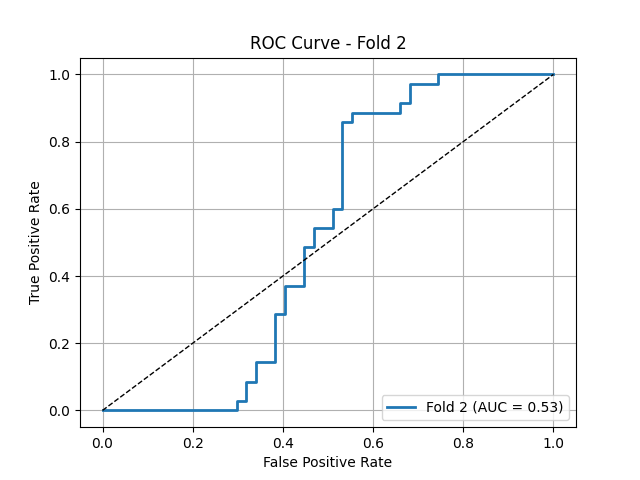
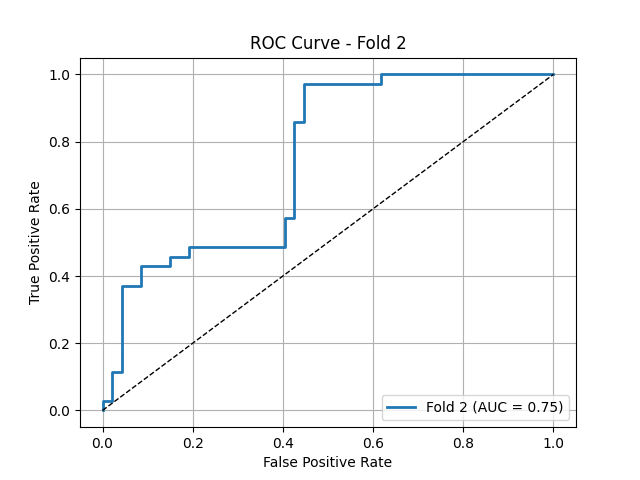
asymetric loss function inplace of bcewithlogits

diff --git a/models.py b/models.py
@@ -200,6 +200,27 @@ class FCNetwork(nn.Module):
     def forward(self, x):
         return self.model(x)
 
+
+class AsymmetricLoss(nn.Module):
+    def __init__(self, gamma_pos=0, gamma_neg=4, clip=0.05, eps=1e-8):
+        super(AsymmetricLoss, self).__init__()
+        self.gamma_pos = gamma_pos
+        self.gamma_neg = gamma_neg
+        self.clip = clip
+        self.eps = eps
+
+    def forward(self, inputs, targets):
+        inputs_sigmoid = torch.sigmoid(inputs)
+        inputs_sigmoid = torch.clamp(inputs_sigmoid, self.eps, 1 - self.eps)
+
+        if self.clip is not None and self.clip > 0:
+            inputs_sigmoid = (inputs_sigmoid - self.clip).clamp(min=0, max=1)
+
+        targets = targets.float()
+        loss_pos = targets * torch.log(inputs_sigmoid) * (1 - inputs_sigmoid) ** self.gamma_pos
+        loss_neg = (1 - targets) * torch.log(1 - inputs_sigmoid) * inputs_sigmoid ** self.gamma_neg
+        loss = -loss_pos - loss_neg
+        return loss.mean()
     
 
 # this model is binary classification model: malignant, benign    
@@ -247,7 +268,11 @@ class BinaryClassification(pl.LightningModule):
         self.final_layer = FCNetwork(input_size= 4, hidden_sizes=[8, 12, 5], output_size= 1)
 
 
-        self.loss_fn = nn.BCEWithLogitsLoss()  # More stable than BCELoss
+        self.loss_fn =  AsymmetricLoss(
+                    gamma_pos=0.0,     # do not suppress learning from malignant (minority)
+                    gamma_neg=4.0,     # suppress easy benign (majority) examples
+                    clip=0.05          # clip predictions near 0 or 1 to avoid overconfidence
+                )# AsymmetricLoss() # nn.BCEWithLogitsLoss()  # More stable than BCELoss
         self.accuracy_metric = BinaryAccuracy()  # Accuracy metric using TorchMetrics
         self.auc_metric = torchmetrics.AUROC(task="binary")
 
@@ -339,7 +364,6 @@ class BinaryClassification(pl.LightningModule):
             x4 = self.linear_center(x_center.reshape(x.shape[0], -1)) 
             x =  torch.cat([x1, x2, x3 ,x4], dim = -1)  
             return self.final_layer(x).squeeze(), (x1.squeeze(), x2.squeeze(), x3.squeeze(), x4.squeeze())
-
 
 
     def training_step(self, batch, batch_idx):
